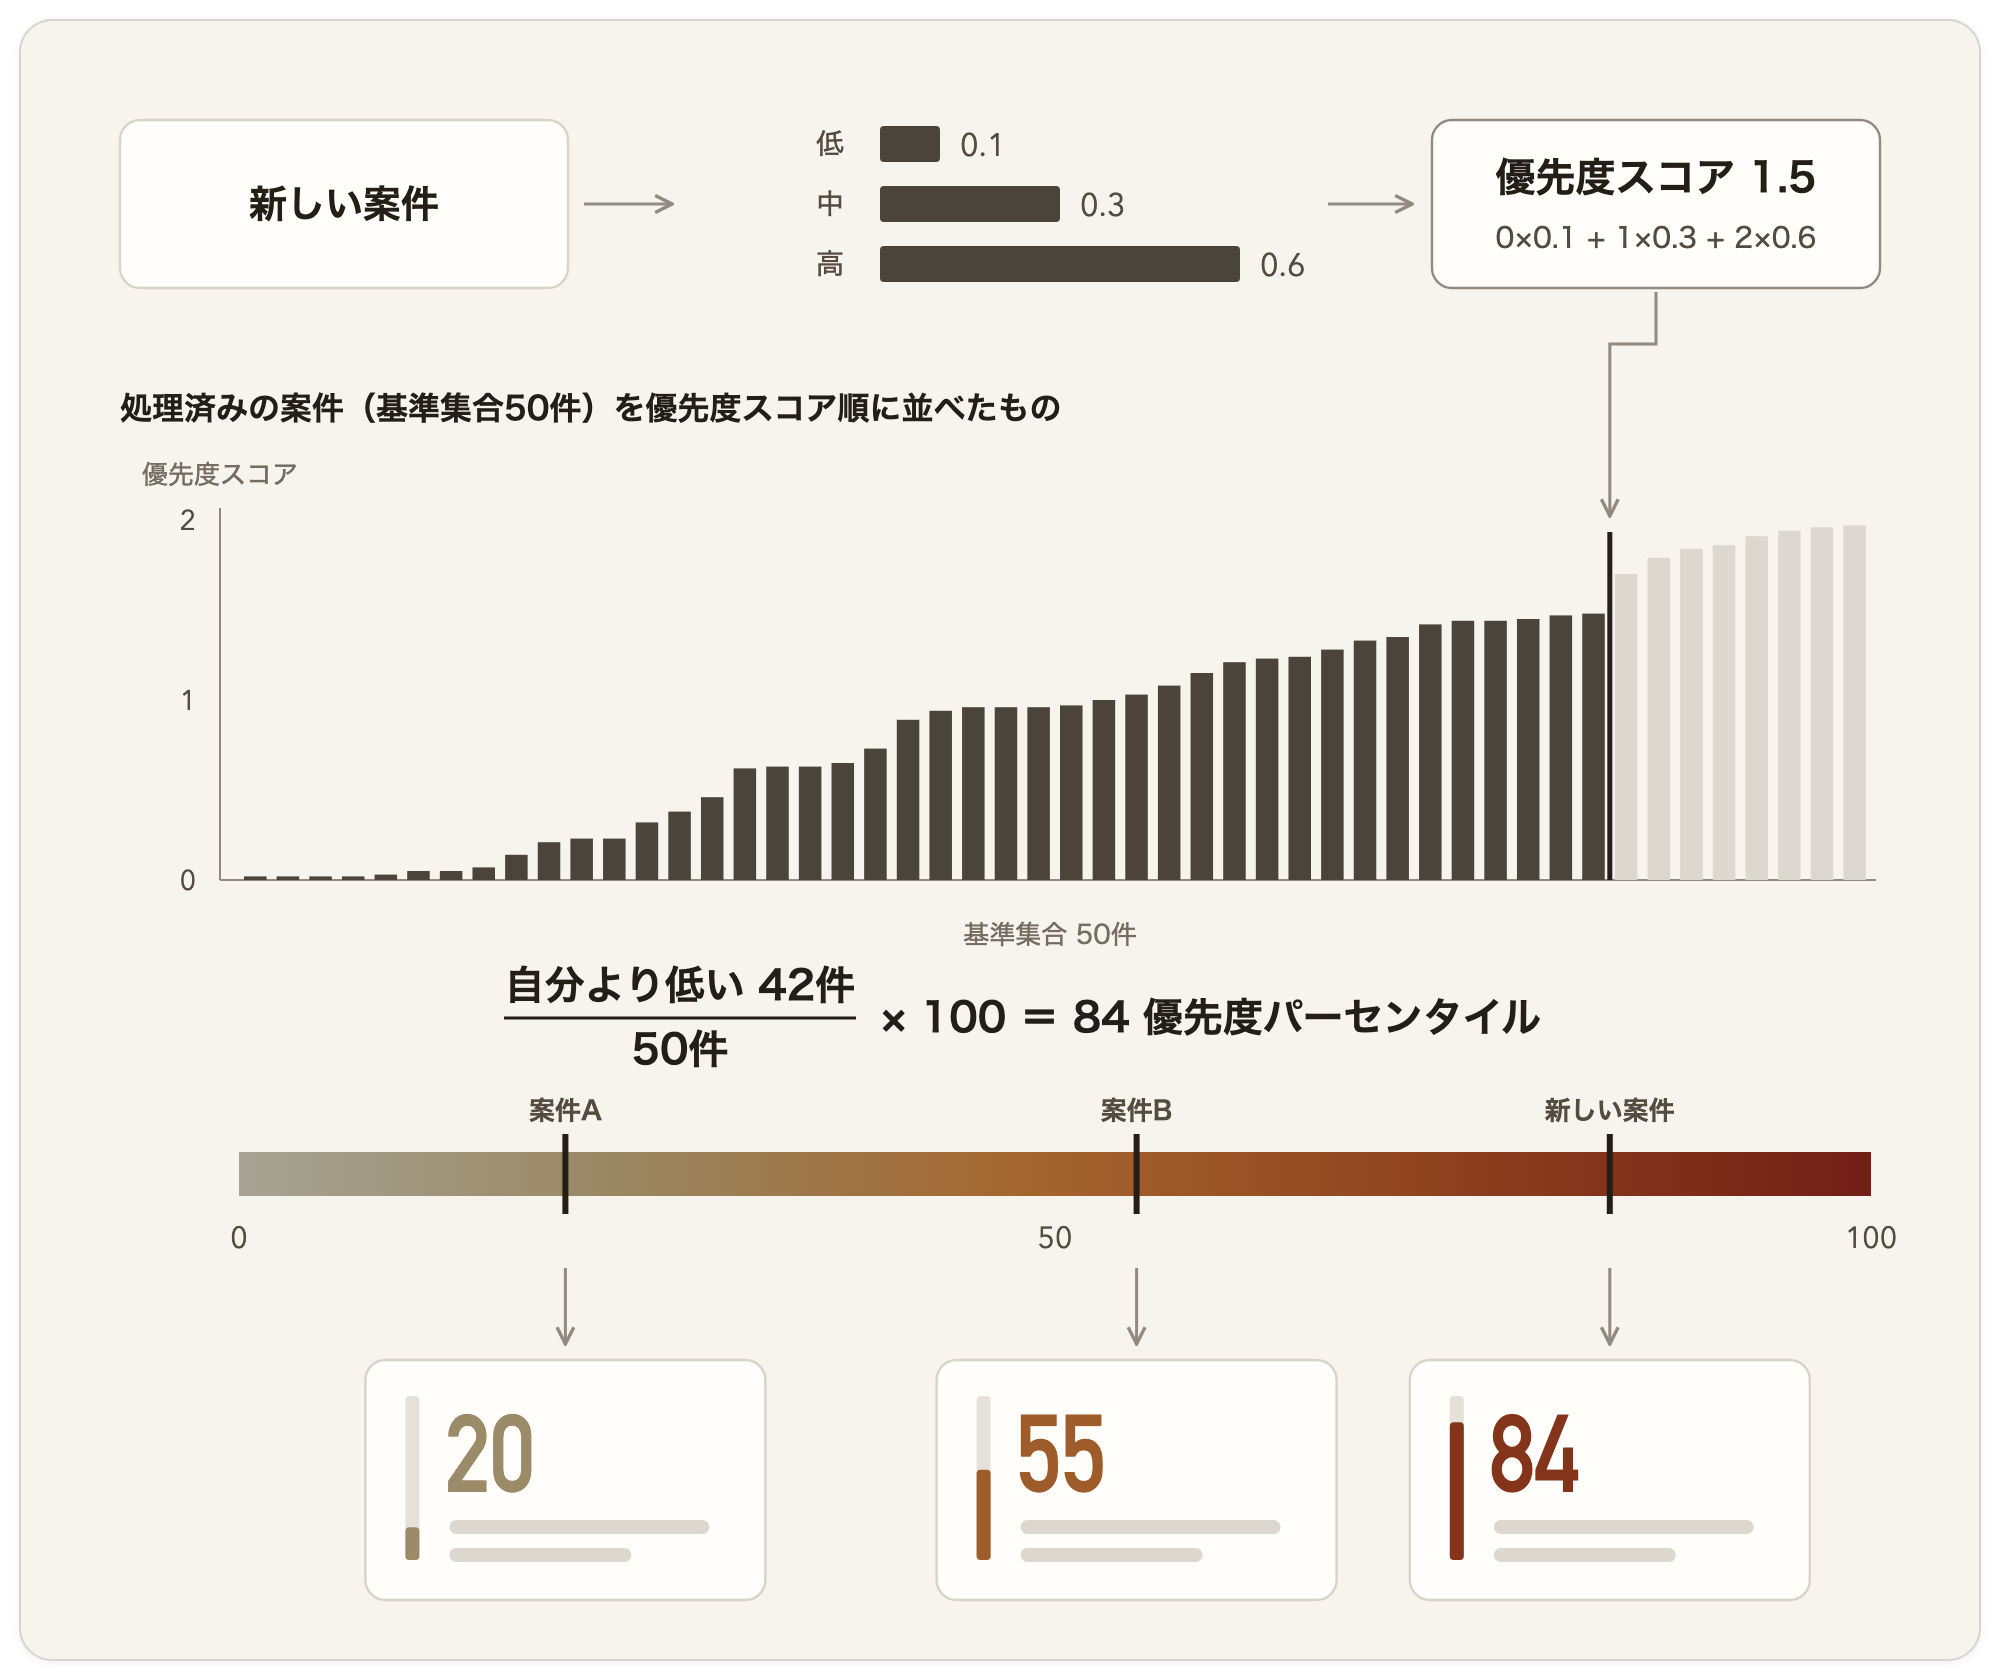
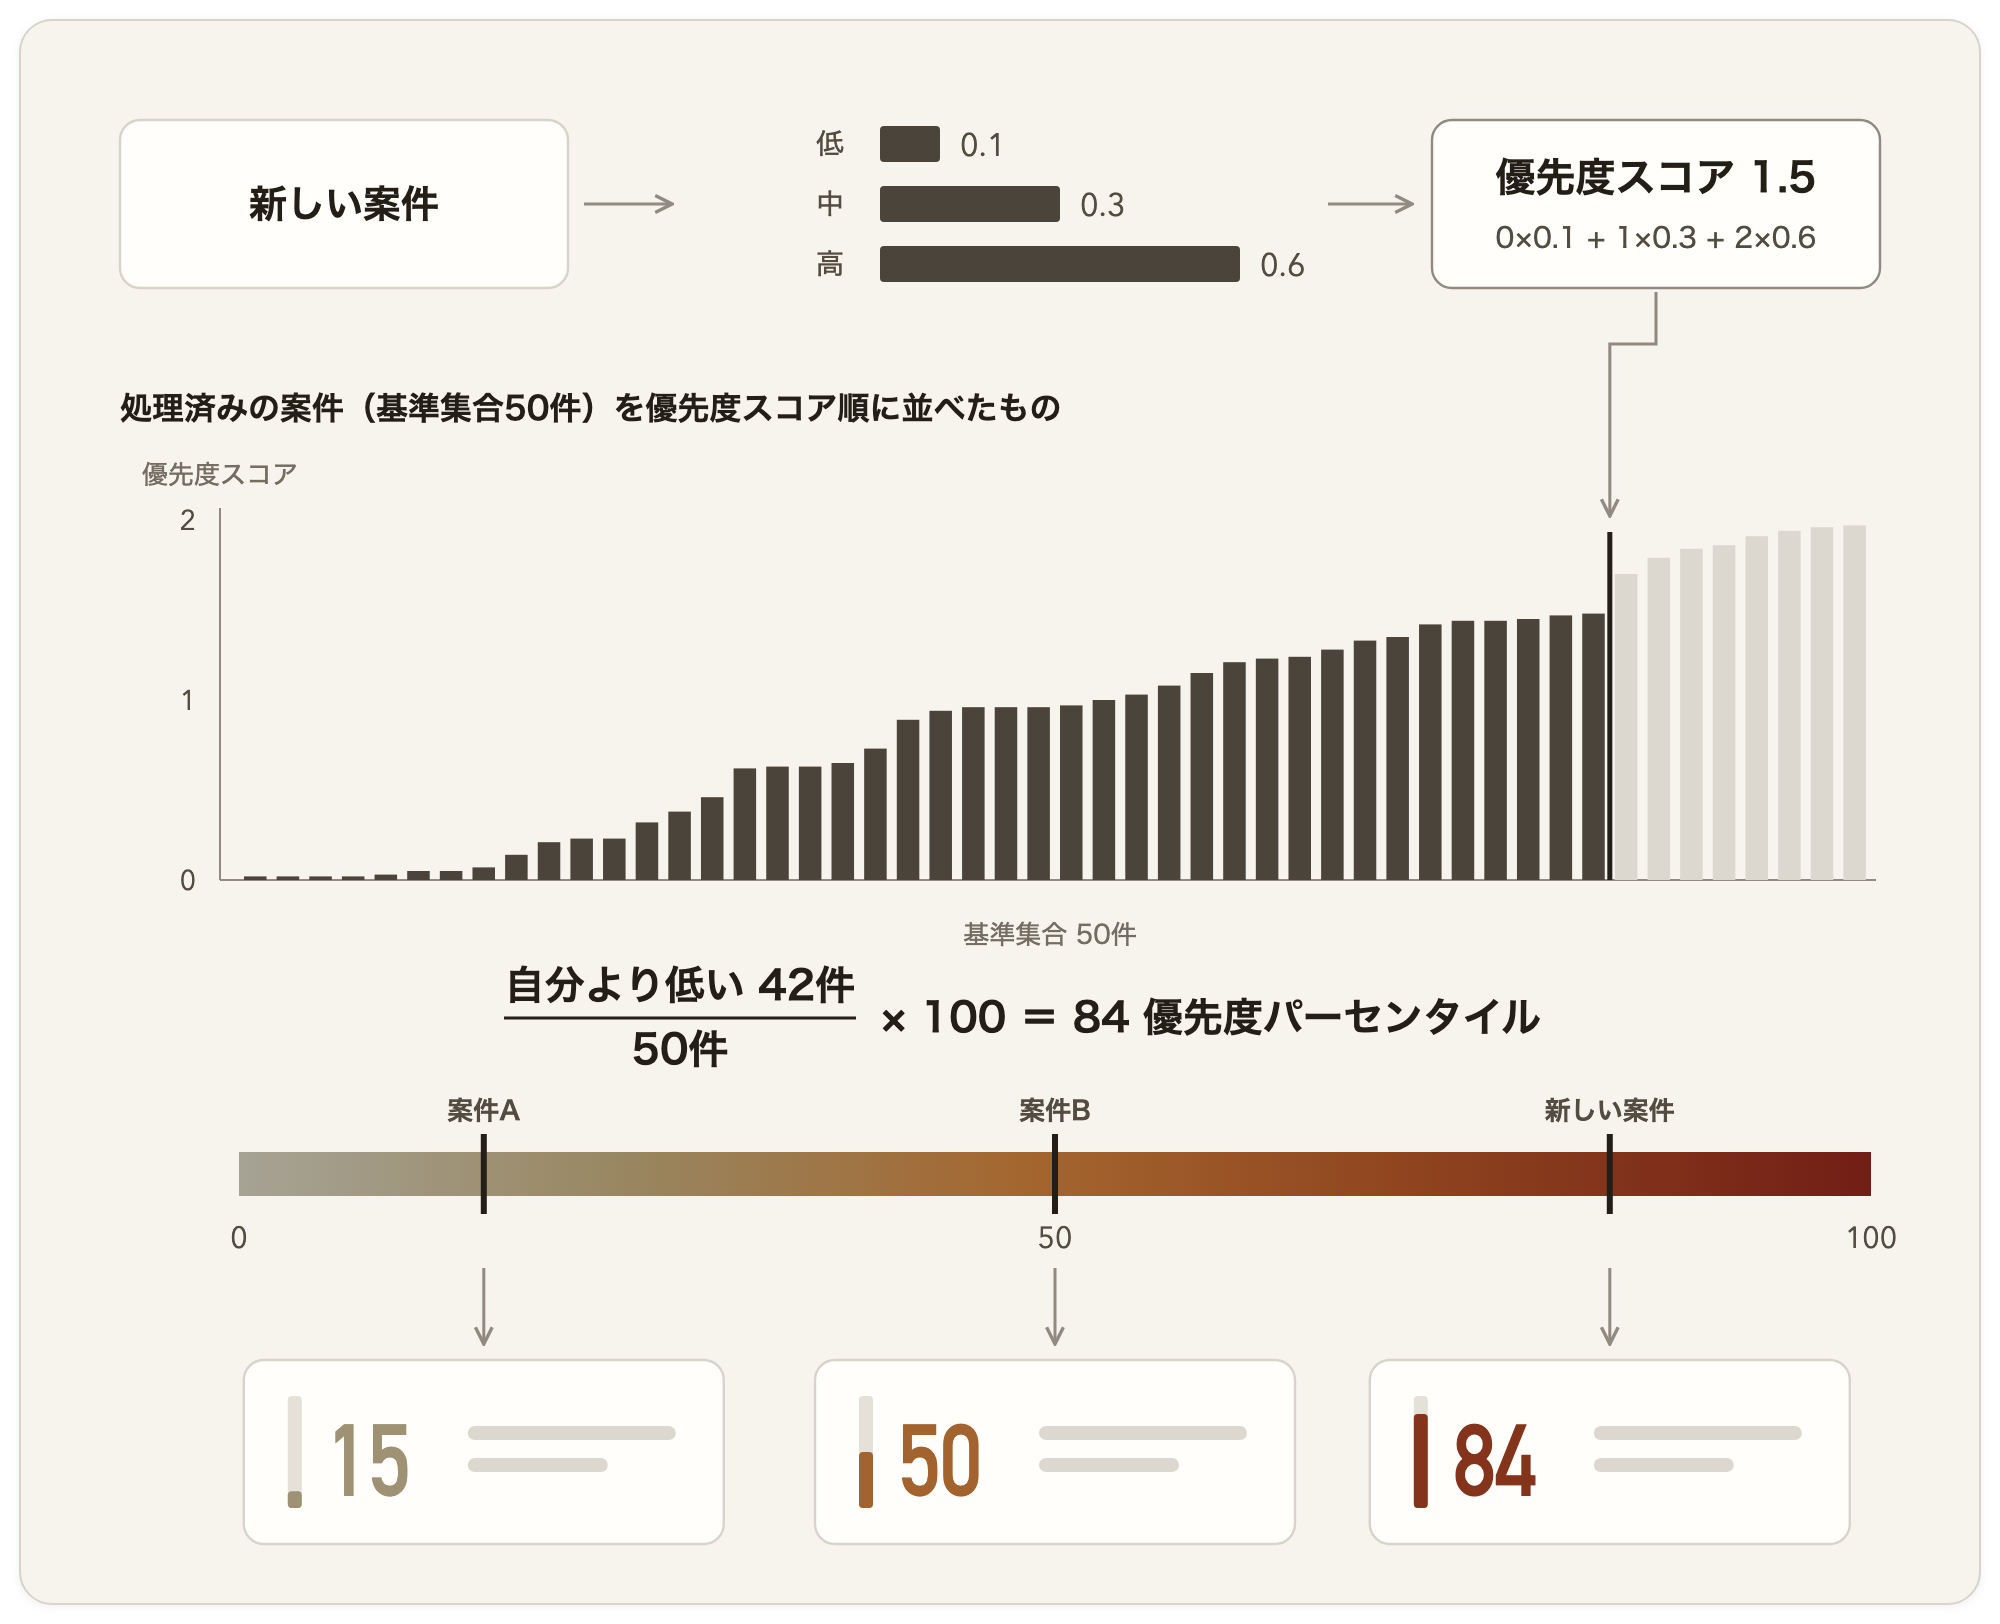
docs: add Jev answer figure and tidy flow figure cards
- Restore the snowman season figure in section 1
- Lay out flow figure cards like the demo and center them under their markers

diff --git a/README.md b/README.md
@@ -23,7 +23,11 @@ percentile-ranked triage は、System One model（短時間かつ低コストで
 
 ### 1. System One model を自分の手で試す
 
-2026年9月、TypeSafe が System One model の Jev を公開しました。Jev に「『雪だるまを作った』の季節は、春・夏・秋・冬のどれか」と尋ねると、「冬 62%、秋 20%、春 12%、夏 7%」のように、選択肢ごとの確率で答えることができます。確率がすぐに返ってくるので、大量の案件を、急ぐ順に並べるのに使えるのではないかと考え、オープンウェイトの System One model である decider（0.8b・2b・4b）を手元の PC で動かして、確かめることにしました。
+2026年9月、TypeSafe が System One model の Jev を公開しました。Jev に「『雪だるまを作った』の季節は、春・夏・秋・冬のどれか」と尋ねると、「冬 62%、秋 20%、春 12%、夏 7%」のように、選択肢ごとの確率で答えることができます。
+
+<img src="docs/images/answer_example.png" width="336" alt="「雪だるまを作った」の季節への Jev の答え（冬 62%、秋 20%、春 12%、夏 7%）">
+
+確率がすぐに返ってくるので、大量の案件を、急ぐ順に並べるのに使えるのではないかと考え、オープンウェイトの System One model である decider（0.8b・2b・4b）を手元の PC で動かして、確かめることにしました。
 
 ### 2. 並べ替えには、正答率より並び順を使う
 
